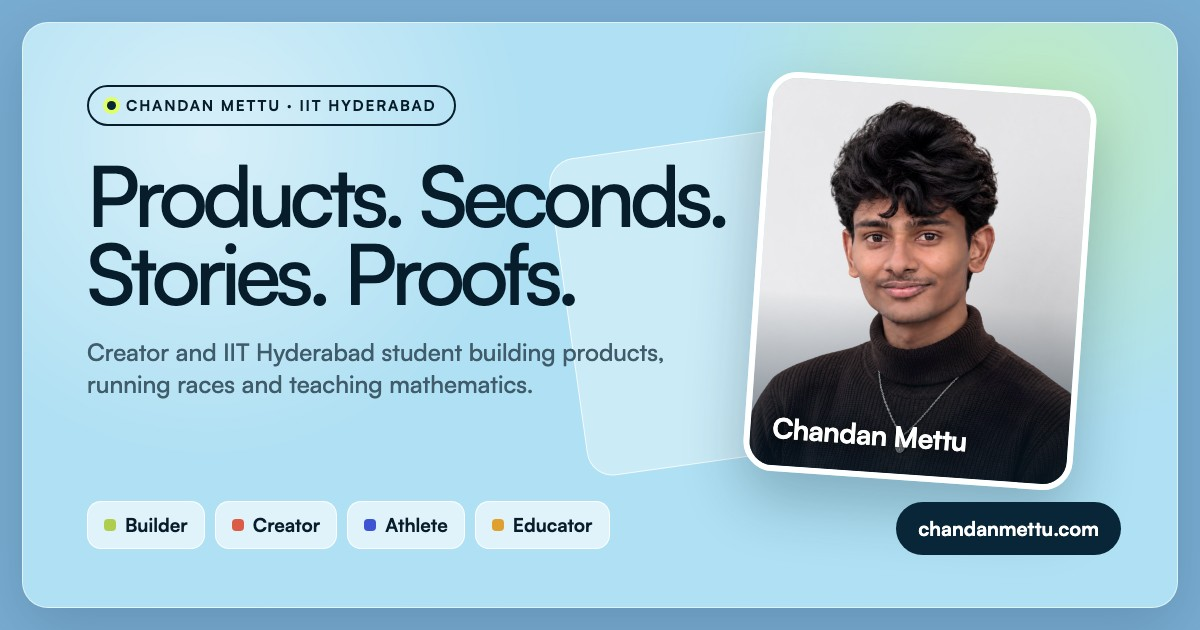
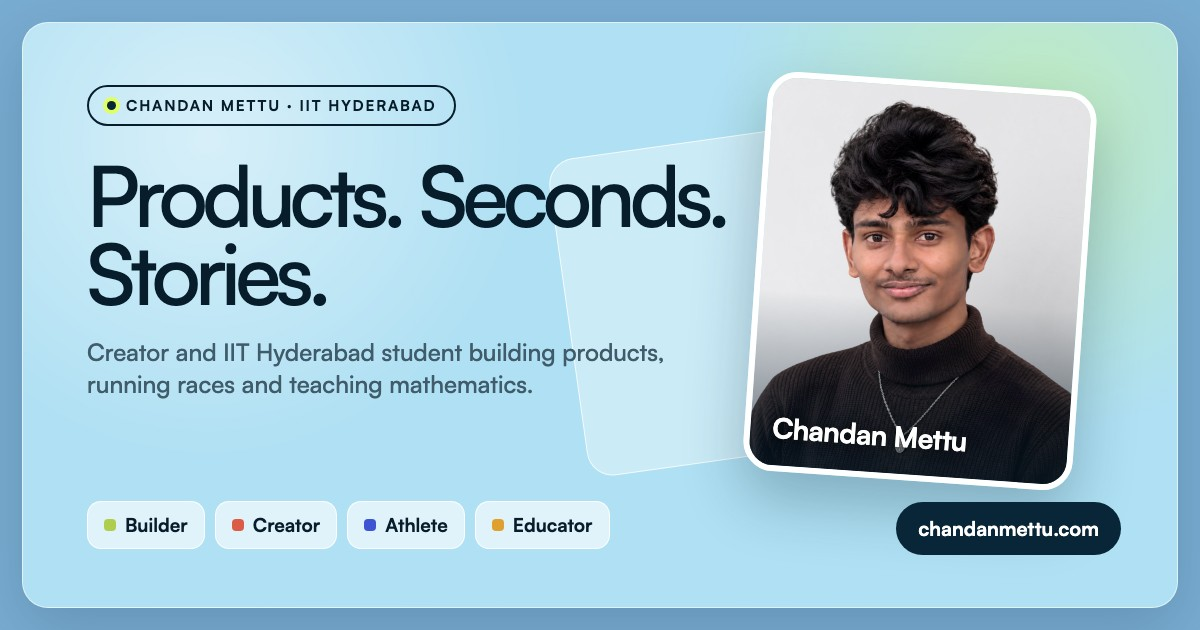
Hero: simpler eyebrow and headline, card wheel never covers hero text
- Eyebrow is just 'Chandan Mettu'; headline drops 'Proofs.'
- Social card regenerated to match (social-card.jpg?v=2)
- On short viewports (e.g. iPad landscape) the sticky hero can't grow, so the card
  wheel scales down just enough to clear the tallest persona copy; recalculated on
  resize, orientation change, font load and when the tab becomes visible

Changed region(s): [[0.2775, 0.3619, 0.4933, 0.4825]]

diff --git a/index.html b/index.html
@@ -15,17 +15,17 @@
 <meta property="og:url" content="https://chandanmettu.com/">
 <meta property="og:title" content="Chandan Mettu — Creator, Builder &amp; IIT Hyderabad Student">
 <meta property="og:description" content="Chandan Mettu is a creator and IIT Hyderabad student who builds products, experiments with technology, and shares stories from student life and beyond.">
-<meta property="og:image" content="https://chandanmettu.com/assets/social-card.jpg?v=1">
+<meta property="og:image" content="https://chandanmettu.com/assets/social-card.jpg?v=2">
 <meta property="og:image:width" content="1200">
 <meta property="og:image:height" content="630">
-<meta property="og:image:alt" content="Chandan Mettu — Products. Seconds. Stories. Proofs.">
+<meta property="og:image:alt" content="Chandan Mettu — Products. Seconds. Stories.">
 <meta name="twitter:card" content="summary_large_image">
 <meta name="twitter:site" content="@chandanmettu">
 <meta name="twitter:creator" content="@chandanmettu">
 <meta name="twitter:title" content="Chandan Mettu — Creator, Builder &amp; IIT Hyderabad Student">
 <meta name="twitter:description" content="Chandan Mettu is a creator and IIT Hyderabad student who builds products, experiments with technology, and shares stories from student life and beyond.">
-<meta name="twitter:image" content="https://chandanmettu.com/assets/social-card.jpg?v=1">
-<meta name="twitter:image:alt" content="Chandan Mettu — Products. Seconds. Stories. Proofs.">
+<meta name="twitter:image" content="https://chandanmettu.com/assets/social-card.jpg?v=2">
+<meta name="twitter:image:alt" content="Chandan Mettu — Products. Seconds. Stories.">
 <link rel="icon" href="assets/brand/chandan-mettu-icon-32.png" sizes="32x32" type="image/png">
 <link rel="icon" href="assets/brand/chandan-mettu-icon-512.png" sizes="512x512" type="image/png">
 <link rel="apple-touch-icon" href="assets/brand/chandan-mettu-icon-180.png">
@@ -104,6 +104,8 @@ body{overflow-x:hidden;background:var(--outer);letter-spacing:-.012em}
 .wheel-thread{position:absolute;z-index:2;left:50%;bottom:-38px;width:min(1080px,94%);height:320px;transform:translateX(-50%);overflow:visible;pointer-events:none;opacity:.6}
 .wheel-thread path{fill:none;stroke:color-mix(in srgb,var(--hero-ink) 42%,transparent);stroke-width:2.2;stroke-linecap:round;stroke-dasharray:.55 1.75;vector-effect:non-scaling-stroke}
 .mode-hint{bottom:16px;font-size:12px;letter-spacing:.02em;opacity:.72}
+.stage{transform:scale(var(--stage-scale,1));transform-origin:50% 100%}
+.wheel-thread{transform:translateX(-50%) scale(var(--stage-scale,1));transform-origin:50% 100%}
 @media (max-height:780px){.hero{padding-top:clamp(78px,10vh,90px)}.hero h1{font-size:clamp(2.8rem,5.4vw,4.4rem)}.stage{height:340px;bottom:36px}.persona{top:36px}.wheel-thread{bottom:-24px;height:290px}}
 .main-content{position:relative;z-index:8;margin-top:-60px;border-radius:52px 52px 0 0;background:var(--surface);box-shadow:0 -30px 90px rgba(8,26,40,.16);padding-bottom:clamp(16px,2.5vw,28px);transition:background .55s;overflow-anchor:none}
 .panel{position:relative;z-index:1;margin-top:0;padding:72px 0 54px;border-radius:52px 52px 0 0;background:linear-gradient(180deg,color-mix(in srgb,#fff 52%,var(--surface)),var(--surface) 34%);transition:background .55s}
@@ -1631,7 +1633,7 @@ body[data-mode="builder"] .collection[data-project-view="icons"] .project-card {
   <header class="hero" id="top">
     <div class="hero-copy">
       <p class="kicker" id="heroKicker">Chandan Mettu · IIT Hyderabad</p>
-      <h1 id="heroTitle">Products. Seconds.<br>Stories. Proofs.</h1>
+      <h1 id="heroTitle">Products. Seconds.<br>Stories.</h1>
       <p id="heroCopy">Products built for students. Races measured in hundredths. Stories shaped from the journey. Mathematics taught from first principles.</p>
     </div>
     <svg class="wheel-thread" viewBox="0 0 1000 320" preserveAspectRatio="none" aria-hidden="true"><path pathLength="100" d="M15 305 Q500 -80 985 305"/></svg>
@@ -1825,7 +1827,7 @@ const modeMedia={
   educator:{image:'assets/personas/educator-profile-smiling.jpg',alt:'Chandan Mettu smiling in a Vedantu Master Teacher T-shirt',position:'center 42%'}
 };
 const modes={
-overview:{wipe:'#afe0f3',label:'Chandan Mettu',kicker:'Chandan Mettu · IIT Hyderabad',title:'Products. Seconds.<br>Stories. Proofs.',hero:'Products built for students. Races measured in hundredths. Stories shaped from the journey. Mathematics taught from first principles.',panelKicker:'Four disciplines',panelTitle:'Curiosity, put to work.',summary:'Building turns friction into products. Sport tests consistency. Creating makes the journey worth sharing. Teaching turns hard ideas into something clearer.',stats:[['100K+','Students reached','CL'],['11.46 s','100 m institute record','100'],['500K+','Views across socials','C'],['INMO','National qualifier','∑']],collectionTitle:'Choose where to begin.',collectionCopy:'',items:[{mode:'builder',name:'Builder',copy:'CampusLoom, CampusKit, and tools built around student life.',meta:'Products',icon:'B'},{mode:'creator',name:'Creator',copy:'Stories from building, learning, sport, and the moments in between.',meta:'Stories · videos',icon:'C'},{mode:'athlete',name:'Athlete',copy:'Sprint, long jump, cricket, football, and any game worth joining.',meta:'Track · field · court',icon:'A'},{mode:'educator',name:'Educator',copy:'Olympiad mathematics explained from first principles.',meta:'Mathematics',icon:'E'}],links:[]},
+overview:{wipe:'#afe0f3',label:'Chandan Mettu',kicker:'Chandan Mettu',title:'Products. Seconds.<br>Stories.',hero:'Products built for students. Races measured in hundredths. Stories shaped from the journey. Mathematics taught from first principles.',panelKicker:'Four disciplines',panelTitle:'Curiosity, put to work.',summary:'Building turns friction into products. Sport tests consistency. Creating makes the journey worth sharing. Teaching turns hard ideas into something clearer.',stats:[['100K+','Students reached','CL'],['11.46 s','100 m institute record','100'],['500K+','Views across socials','C'],['INMO','National qualifier','∑']],collectionTitle:'Choose where to begin.',collectionCopy:'',items:[{mode:'builder',name:'Builder',copy:'CampusLoom, CampusKit, and tools built around student life.',meta:'Products',icon:'B'},{mode:'creator',name:'Creator',copy:'Stories from building, learning, sport, and the moments in between.',meta:'Stories · videos',icon:'C'},{mode:'athlete',name:'Athlete',copy:'Sprint, long jump, cricket, football, and any game worth joining.',meta:'Track · field · court',icon:'A'},{mode:'educator',name:'Educator',copy:'Olympiad mathematics explained from first principles.',meta:'Mathematics',icon:'E'}],links:[]},
 builder:{
   wipe:'#dfff63',label:'Builder',kicker:'Builder',
   title:'I turn everyday friction<br>into useful products.',
@@ -2487,6 +2489,29 @@ if(initialMode!=='overview'){
   modeHint.textContent=`${modes[initialMode].label} selected. Explore the story below.`;
 }else scheduleAutoShowcase(2600);
 requestWheel();updateScrollEffects();syncShowcaseViewport();
+// Keep the card wheel clear of the hero text. The hero is sticky, so it cannot just grow
+// past the viewport; instead the wheel scales down (sized for the longest persona copy).
+const heroCopyBlock=hero.querySelector('.hero-copy');
+function fitHeroStage(){
+  hero.style.setProperty('--stage-scale','1');
+  const probe=heroCopyBlock.cloneNode(true);
+  probe.querySelectorAll('[id]').forEach(node=>node.removeAttribute('id'));
+  Object.assign(probe.style,{position:'absolute',visibility:'hidden',pointerEvents:'none',left:`${heroCopyBlock.offsetLeft}px`,top:`${heroCopyBlock.offsetTop}px`,width:`${heroCopyBlock.offsetWidth}px`});
+  hero.append(probe);
+  const [kicker,title,copy]=[probe.children[0],probe.querySelector('h1'),probe.querySelector('p:last-child')];
+  let tallest=0;
+  order.forEach(mode=>{kicker.textContent=modes[mode].kicker;title.innerHTML=modes[mode].title;copy.textContent=modes[mode].hero;tallest=Math.max(tallest,probe.offsetHeight)});
+  probe.remove();
+  const heroRect=hero.getBoundingClientRect(),stageRect=stage.getBoundingClientRect();
+  const textBottom=heroCopyBlock.offsetTop+tallest+22;
+  const cardsTop=Math.min(...cards.map(card=>card.getBoundingClientRect().top))-heroRect.top;
+  const overlap=textBottom-cardsTop;
+  if(overlap<=0)return;
+  const pivot=stageRect.bottom-heroRect.top,rise=pivot-cardsTop;
+  hero.style.setProperty('--stage-scale',String(clamp((rise-overlap)/rise,.62,1).toFixed(3)));
+}
+let fitTimer=0;const scheduleFit=()=>{clearTimeout(fitTimer);fitTimer=setTimeout(fitHeroStage,80)};
+scheduleFit();addEventListener('resize',scheduleFit,{passive:true});addEventListener('orientationchange',scheduleFit);addEventListener('load',scheduleFit);document.fonts?.ready.then(scheduleFit);document.addEventListener('visibilitychange',()=>{if(!document.hidden)scheduleFit()});
 </script>
 
 <div class="toast-notice" id="toastNotice" role="status" aria-live="polite">

diff --git a/profile/index.html b/profile/index.html
@@ -14,17 +14,17 @@
   <meta property="og:url" content="https://chandanmettu.com/profile/">
   <meta property="og:title" content="Profile — Chandan Mettu">
   <meta property="og:description" content="Chandan Mettu is a creator and IIT Hyderabad student who builds products, experiments with technology, and shares stories from student life and beyond.">
-  <meta property="og:image" content="https://chandanmettu.com/assets/social-card.jpg?v=1">
+  <meta property="og:image" content="https://chandanmettu.com/assets/social-card.jpg?v=2">
   <meta property="og:image:width" content="1200">
   <meta property="og:image:height" content="630">
-  <meta property="og:image:alt" content="Chandan Mettu — Products. Seconds. Stories. Proofs.">
+  <meta property="og:image:alt" content="Chandan Mettu — Products. Seconds. Stories.">
   <meta name="twitter:card" content="summary_large_image">
   <meta name="twitter:site" content="@chandanmettu">
   <meta name="twitter:creator" content="@chandanmettu">
   <meta name="twitter:title" content="Profile — Chandan Mettu">
   <meta name="twitter:description" content="Chandan Mettu is a creator and IIT Hyderabad student who builds products, experiments with technology, and shares stories from student life and beyond.">
-  <meta name="twitter:image" content="https://chandanmettu.com/assets/social-card.jpg?v=1">
-  <meta name="twitter:image:alt" content="Chandan Mettu — Products. Seconds. Stories. Proofs.">
+  <meta name="twitter:image" content="https://chandanmettu.com/assets/social-card.jpg?v=2">
+  <meta name="twitter:image:alt" content="Chandan Mettu — Products. Seconds. Stories.">
   <link rel="manifest" href="../site.webmanifest">
   <script type="application/ld+json">
   {"@context":"https://schema.org","@type":"Person","@id":"https://chandanmettu.com/#person","name":"Chandan Mettu","alternateName":"@chandanmettu","url":"https://chandanmettu.com/","image":"https://chandanmettu.com/assets/brand/chandan-mettu-portrait.jpg","description":"Chandan Mettu is a creator and IIT Hyderabad student who builds products, experiments with technology, and shares stories from student life and beyond.","email":"mailto:hello@chandanmettu.com","affiliation":{"@type":"CollegeOrUniversity","name":"Indian Institute of Technology Hyderabad"},"sameAs":["https://youtube.com/@chandanmettu","https://instagram.com/chandanmettu","https://x.com/chandanmettu","https://linkedin.com/in/chandanmettu","https://github.com/chandanmettu","https://www.threads.com/@chandanmettu"]}

diff --git a/links/index.html b/links/index.html
@@ -14,17 +14,17 @@
   <meta property="og:url" content="https://chandanmettu.com/links/">
   <meta property="og:title" content="Links — Chandan Mettu">
   <meta property="og:description" content="Find Chandan Mettu, @chandanmettu, on YouTube, Instagram, X, LinkedIn, GitHub, and Threads. Explore products or get in touch.">
-  <meta property="og:image" content="https://chandanmettu.com/assets/social-card.jpg?v=1">
+  <meta property="og:image" content="https://chandanmettu.com/assets/social-card.jpg?v=2">
   <meta property="og:image:width" content="1200">
   <meta property="og:image:height" content="630">
-  <meta property="og:image:alt" content="Chandan Mettu — Products. Seconds. Stories. Proofs.">
+  <meta property="og:image:alt" content="Chandan Mettu — Products. Seconds. Stories.">
   <meta name="twitter:card" content="summary_large_image">
   <meta name="twitter:site" content="@chandanmettu">
   <meta name="twitter:creator" content="@chandanmettu">
   <meta name="twitter:title" content="Links — Chandan Mettu">
   <meta name="twitter:description" content="Find Chandan Mettu, @chandanmettu, on YouTube, Instagram, X, LinkedIn, GitHub, and Threads. Explore products or get in touch.">
-  <meta name="twitter:image" content="https://chandanmettu.com/assets/social-card.jpg?v=1">
-  <meta name="twitter:image:alt" content="Chandan Mettu — Products. Seconds. Stories. Proofs.">
+  <meta name="twitter:image" content="https://chandanmettu.com/assets/social-card.jpg?v=2">
+  <meta name="twitter:image:alt" content="Chandan Mettu — Products. Seconds. Stories.">
   <link rel="manifest" href="../site.webmanifest">
   <script type="application/ld+json">
   {"@context":"https://schema.org","@type":"Person","@id":"https://chandanmettu.com/#person","name":"Chandan Mettu","alternateName":"@chandanmettu","url":"https://chandanmettu.com/","image":"https://chandanmettu.com/assets/brand/chandan-mettu-portrait.jpg","description":"Chandan Mettu is a creator and IIT Hyderabad student who builds products, experiments with technology, and shares stories from student life and beyond.","email":"mailto:hello@chandanmettu.com","affiliation":{"@type":"CollegeOrUniversity","name":"Indian Institute of Technology Hyderabad"},"sameAs":["https://youtube.com/@chandanmettu","https://instagram.com/chandanmettu","https://x.com/chandanmettu","https://linkedin.com/in/chandanmettu","https://github.com/chandanmettu","https://www.threads.com/@chandanmettu"]}
